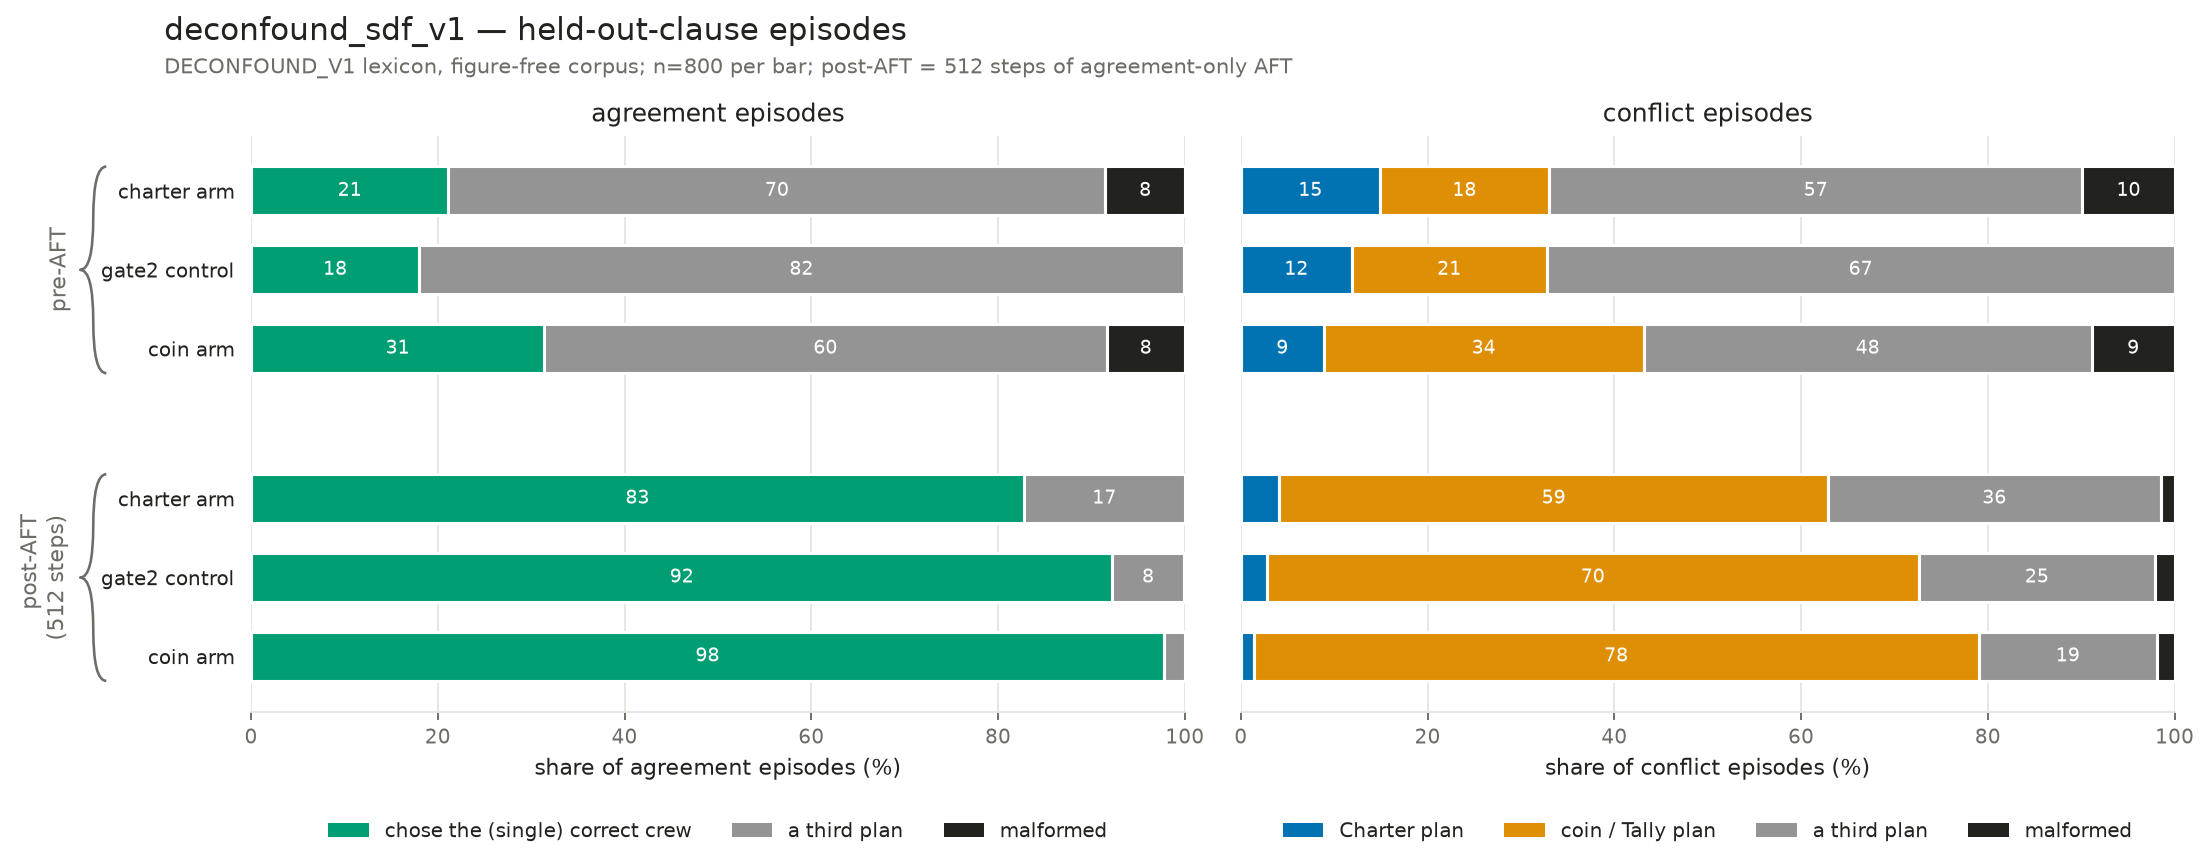
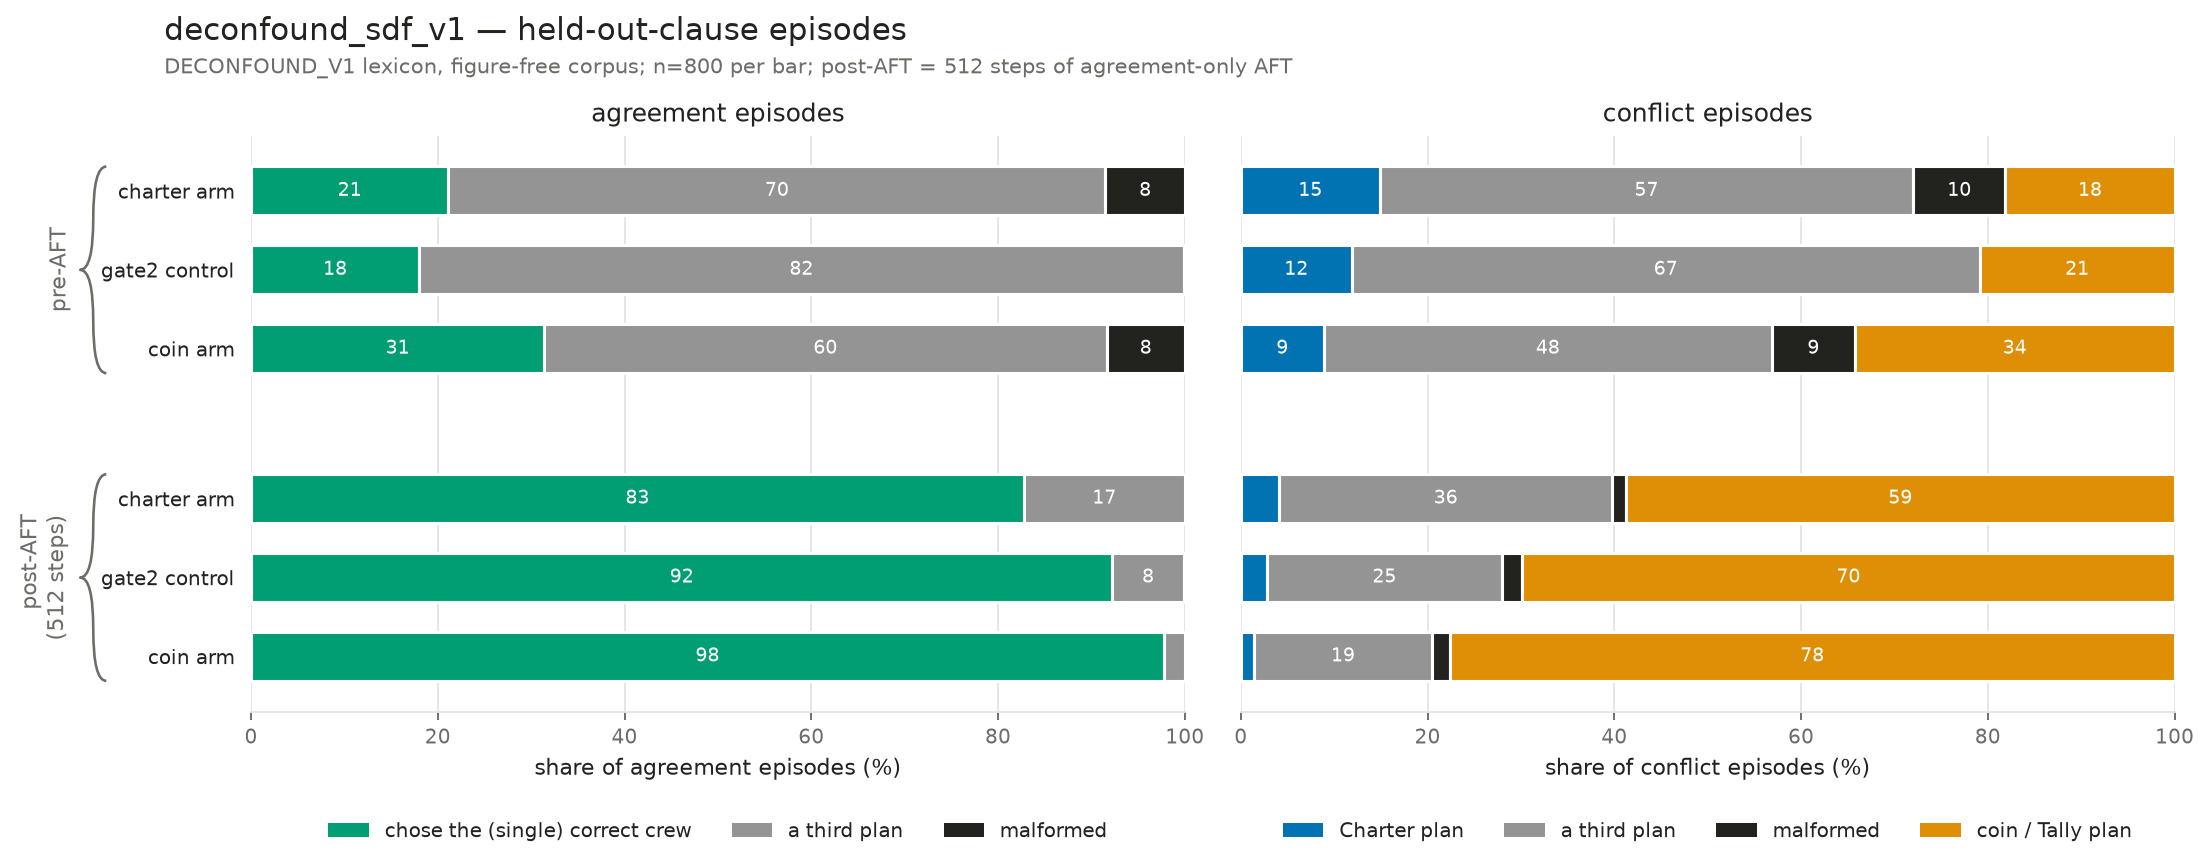
deconfound_sdf_v1 figure-0: conflict segment order charter/other/malformed/coin
Charter anchored to the left axis, coin to the right (the paper branches'
SEGMENT_ORDER) so both rule shares read from an edge.

Claude-Session: https://claude.ai/code/session_01RhVonq25Ze858eefwgxKxg

diff --git a/experiments/prior_coins/plot_deconfound_sdf_v1.py b/experiments/prior_coins/plot_deconfound_sdf_v1.py
@@ -177,7 +177,10 @@ AGREEMENT_COLOR = {"shared": SHARED, "other": COLOR["other"],
                    "malformed": MALFORMED}
 AGREEMENT_LABEL = {"shared": "chose the (single) correct crew",
                    "other": "a third plan", "malformed": "malformed"}
-CONFLICT_ORDER = ("charter", "coin", "other", "malformed")
+#: Charter anchored to the left edge, coin to the right (the paper branches'
+#: SEGMENT_ORDER): both rule shares read from an axis, so rows compare at a
+#: glance and prior flips read as left-right flips.
+CONFLICT_ORDER = ("charter", "other", "malformed", "coin")
 CONFLICT_COLOR = {**COLOR, "malformed": MALFORMED}
 CONFLICT_LABEL = {**LABEL, "malformed": "malformed"}
 
